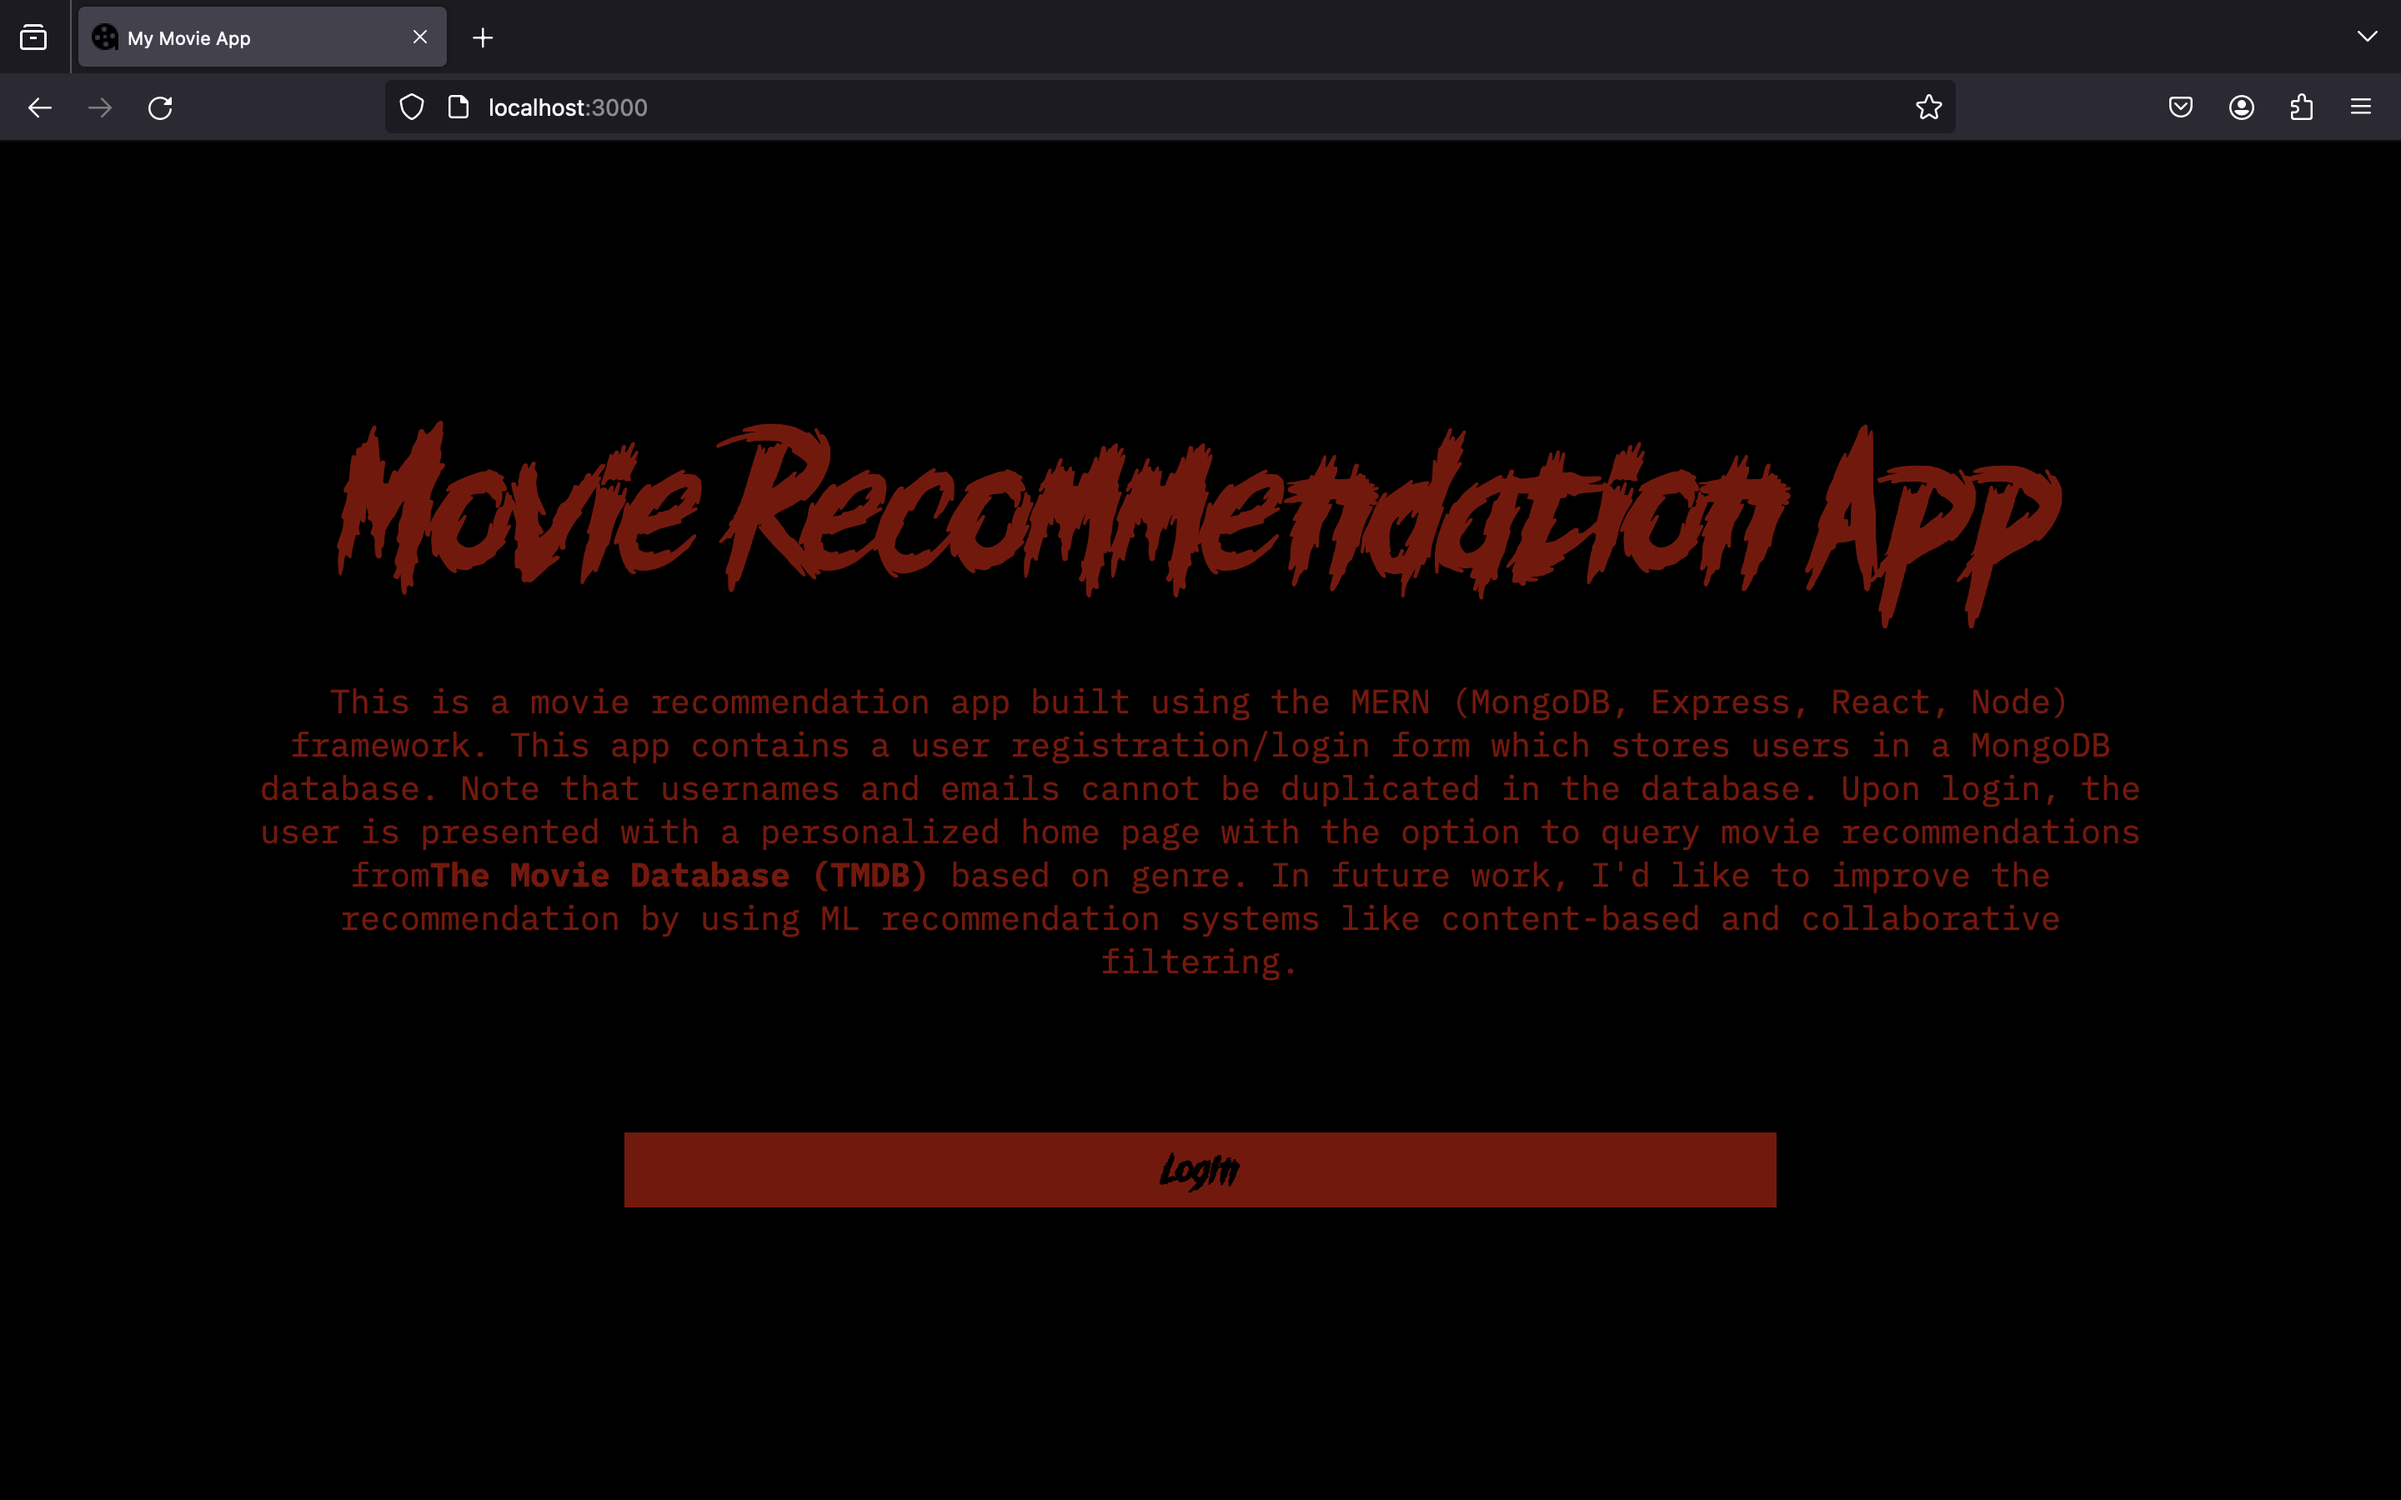
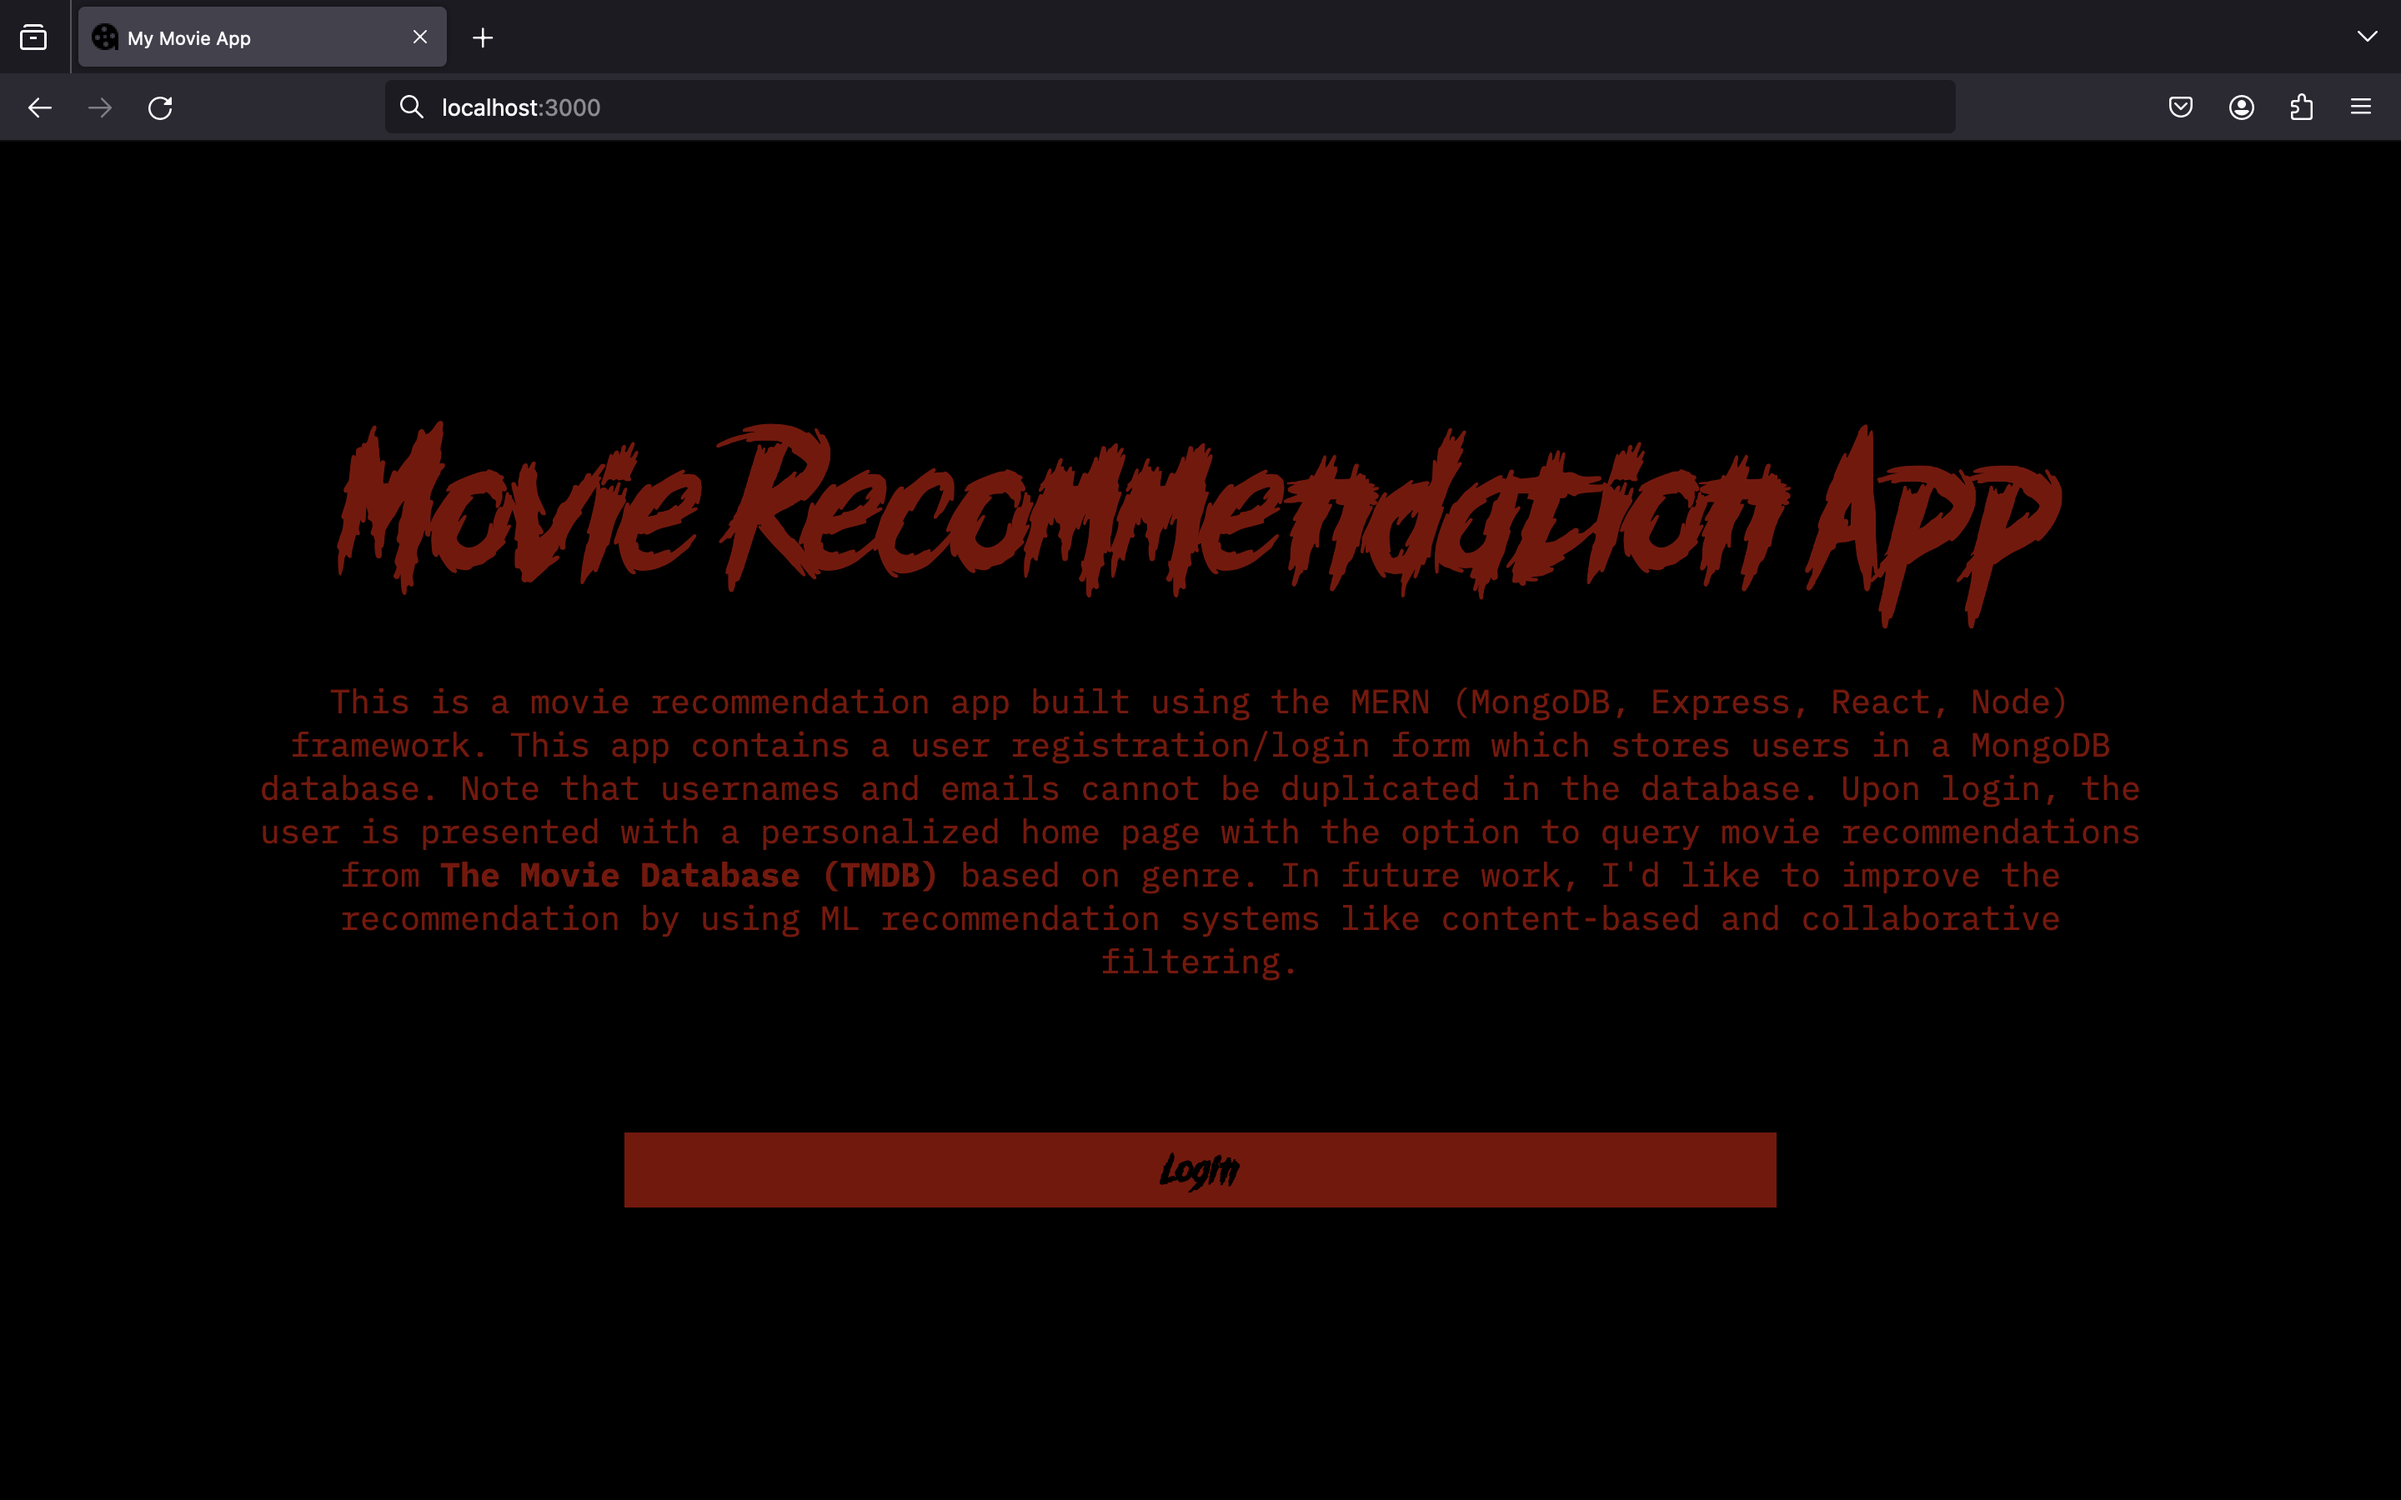
fixed type in home page

Changed region(s): [[0.1562, 0.56, 0.8438, 0.5911], [0.1875, 0.0622, 0.2812, 0.0933]]

diff --git a/src/pages/WebHomePage.jsx b/src/pages/WebHomePage.jsx
@@ -1,38 +1,34 @@
 import React from 'react';
 import { useNavigate } from 'react-router-dom';
-import './Pages.css'
+import './Pages.css';
 
-function Home (){
-	const navigate = useNavigate()
+function Home() {
+	const navigate = useNavigate();
 
 	const handleClick = () => {
-		navigate('/authenticate')
-	}
+		navigate('/authenticate');
+	};
 
 	return (
 		<div className='web-home-container'>
-            <div className='web-home-header'>
-				Movie Recommendation App
-			</div>
+			<div className='web-home-header'>Movie Recommendation App</div>
 			<p className='web-home-p'>
-				This is a movie recommendation app built using the MERN 
-				(MongoDB, Express, React, Node) framework. This app 
-				contains a user registration/login form which stores 
-				users in a MongoDB database. Note that usernames and 
-				emails cannot be duplicated in the database. Upon login, 
-				the user is presented with a personalized home page
-				with the option to query movie recommendations from
-				<b>The Movie Database (TMDB) </b> based on genre.
-
-				In future work, I'd like to improve the recommendation
-				by using ML recommendation systems like content-based 
-				and collaborative filtering.
+				This is a movie recommendation app built using the MERN
+				(MongoDB, Express, React, Node) framework. This app contains a
+				user registration/login form which stores users in a MongoDB
+				database. Note that usernames and emails cannot be duplicated in
+				the database. Upon login, the user is presented with a
+				personalized home page with the option to query movie
+				recommendations from <b>The Movie Database (TMDB) </b> based on
+				genre. In future work, I'd like to improve the recommendation by
+				using ML recommendation systems like content-based and
+				collaborative filtering.
 			</p>
 			<div className='web-home-authenticate' onClick={handleClick}>
 				Login
 			</div>
 		</div>
-	)
+	);
 }
 
 export default Home;
